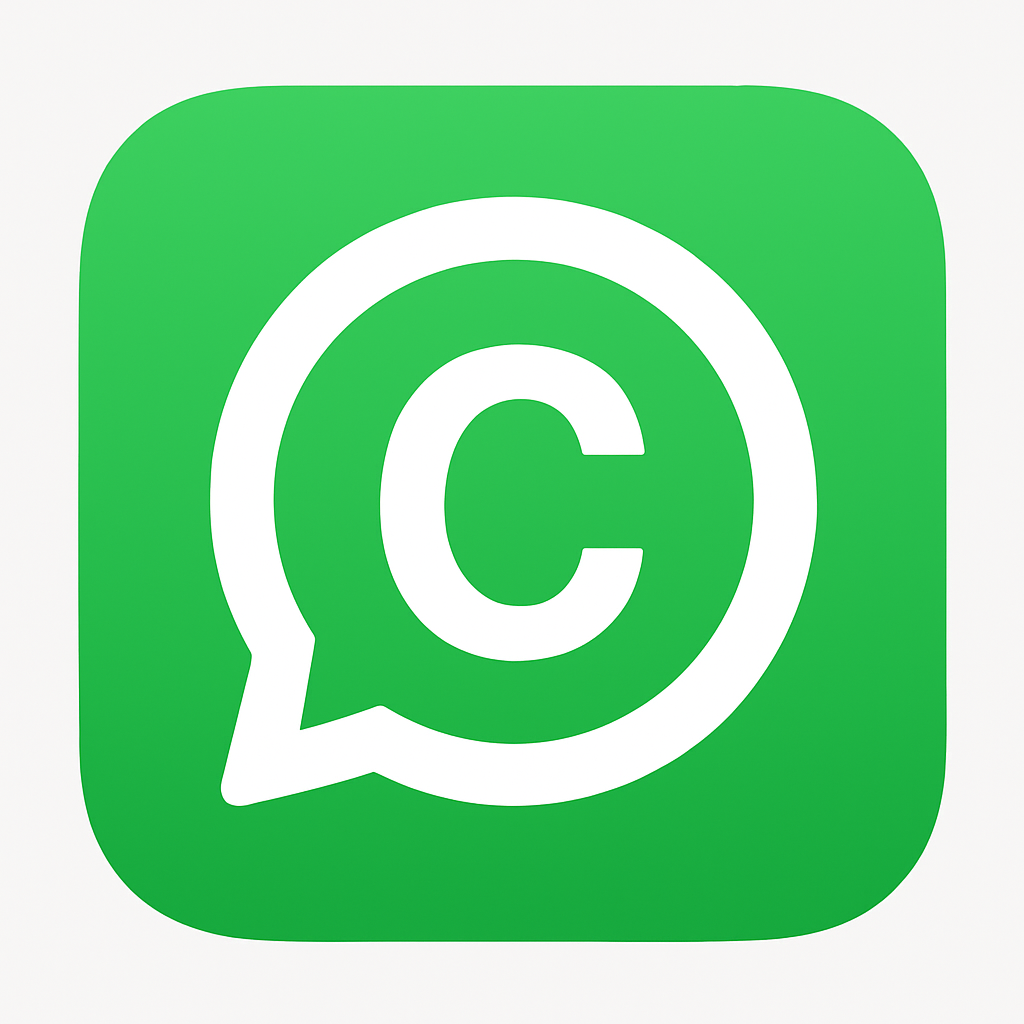
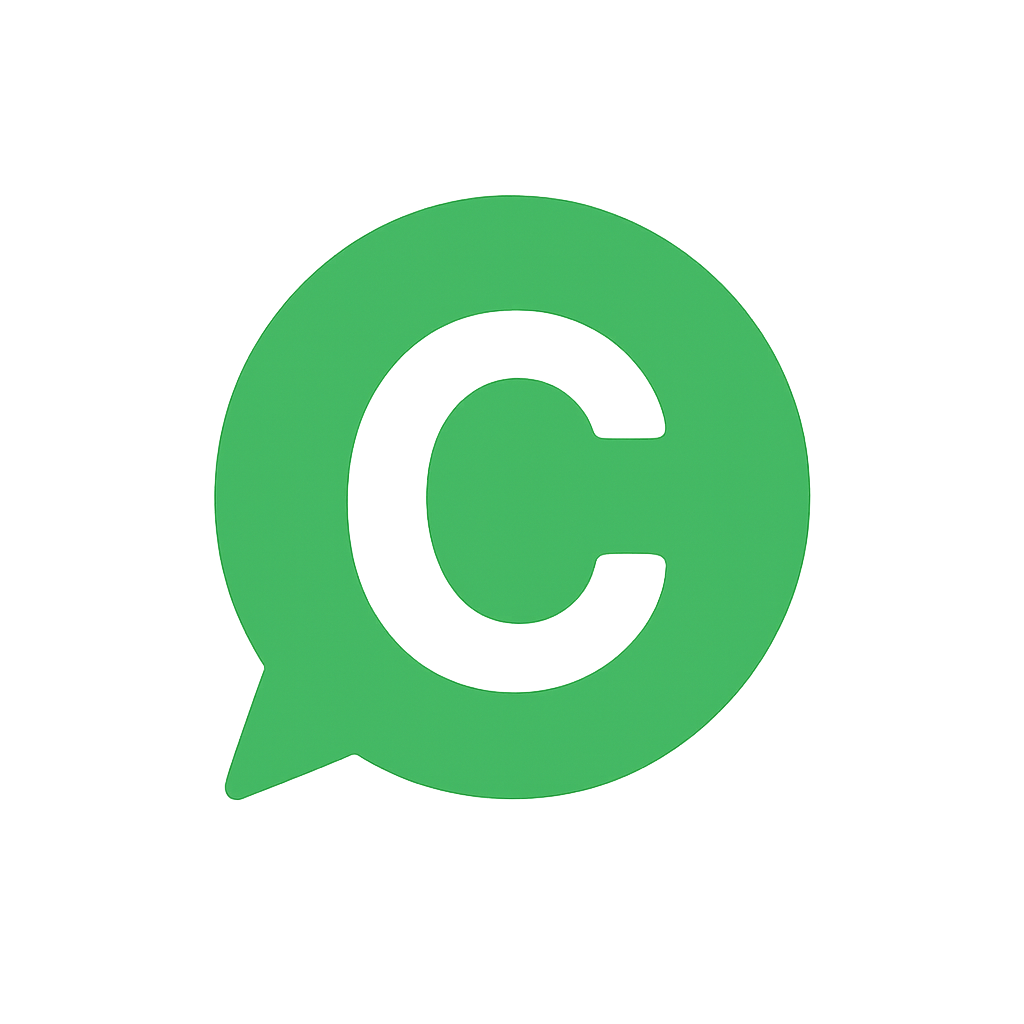
login page

diff --git a/src/components/LoginPage.jsx b/src/components/LoginPage.jsx
@@ -3,16 +3,21 @@ import { signInWithPopup, GoogleAuthProvider } from "firebase/auth";
 
 export default function LoginPage() {
   return (
-    <>
-      <div>Login Page</div>
+    <div className="flex flex-col items-center h-screen justify-center">
+      <div className="w-24 rounded-xl">
+        <img src="./icon.png" alt="Logo" />
+      </div>
+      <div className="text-3xl font-bold text-green-500">cchat</div>
       <button
+        className="btn btn-primary mt-3"
         onClick={() => {
           const provider = new GoogleAuthProvider();
           signInWithPopup(auth, provider);
         }}
       >
         Login with Google
+        <i class="fa-brands fa-google fa-beat"></i>
       </button>
-    </>
+    </div>
   );
 }
